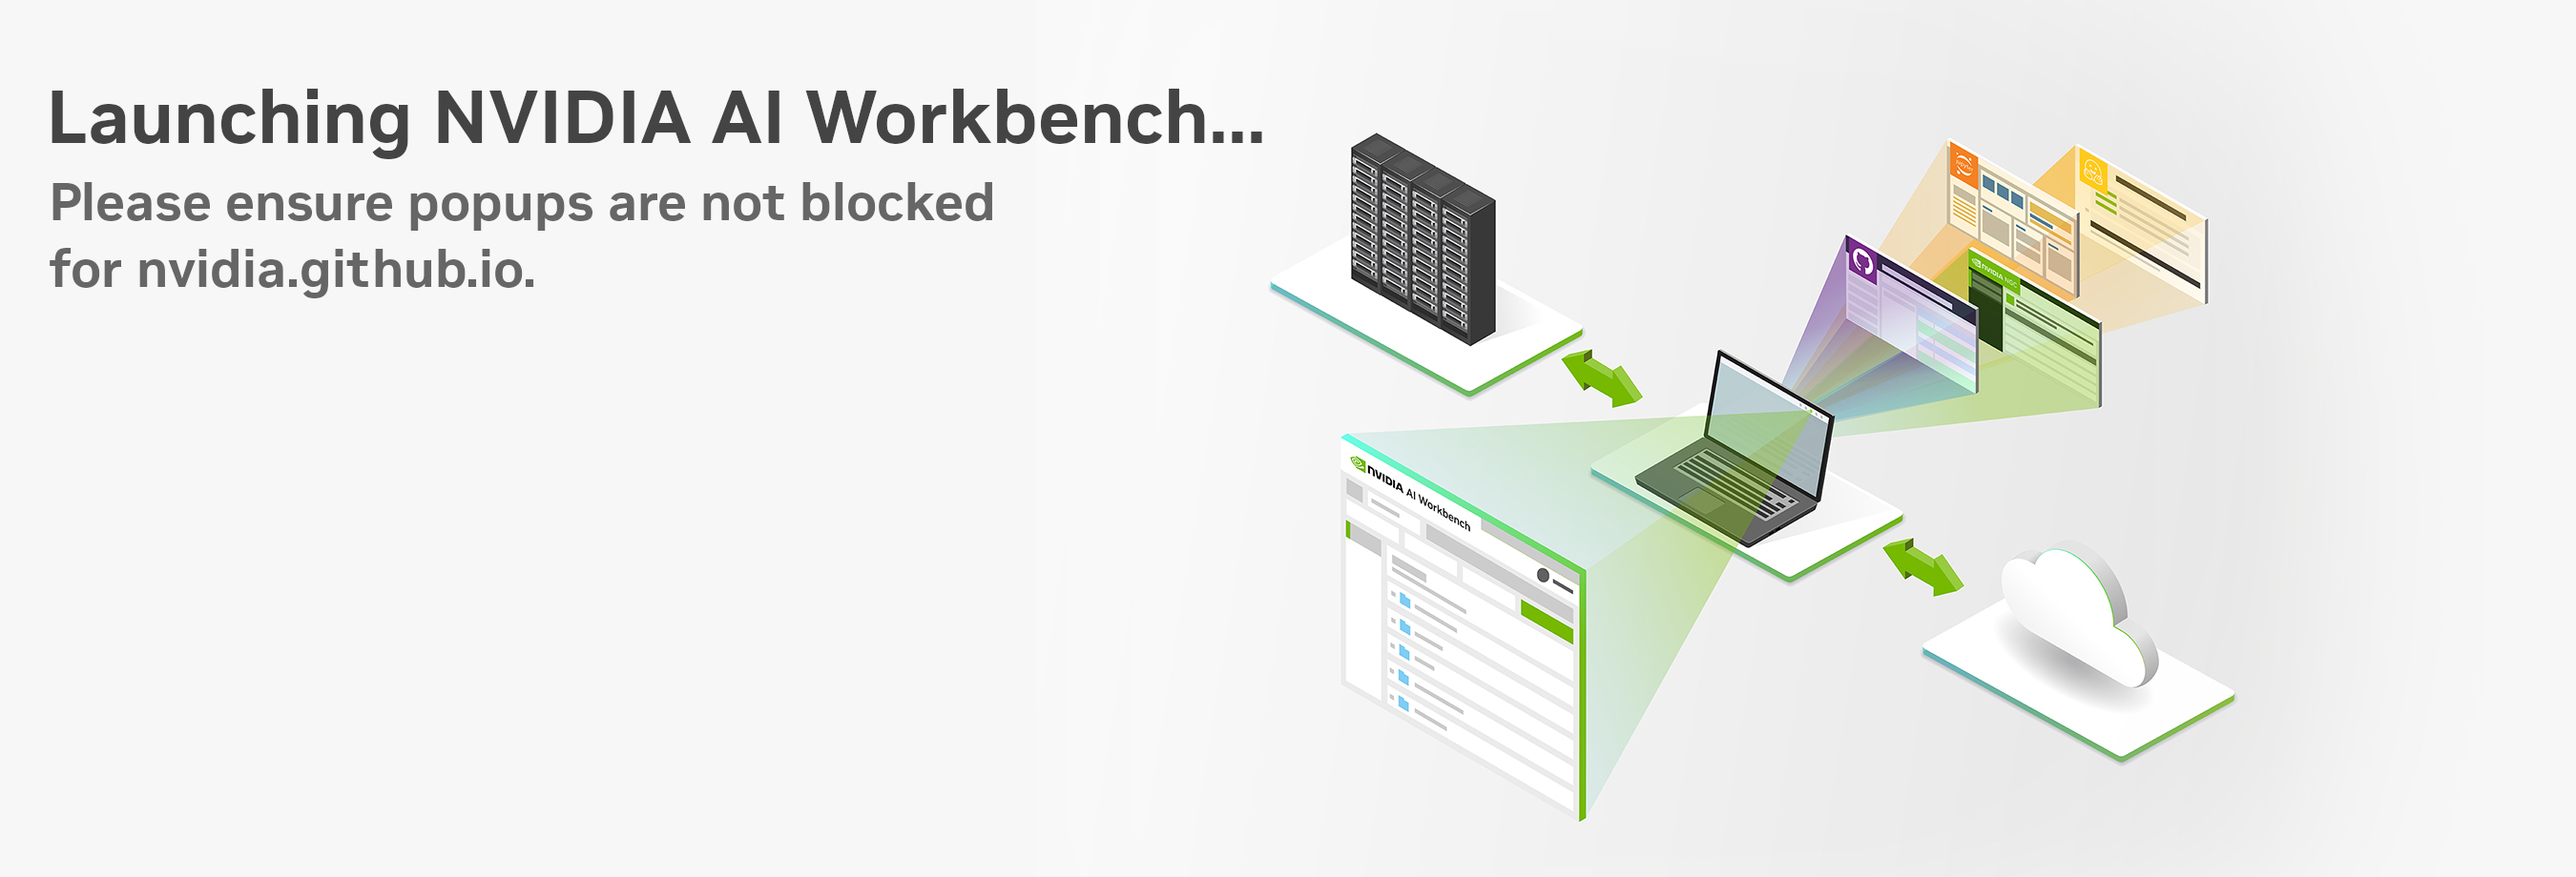
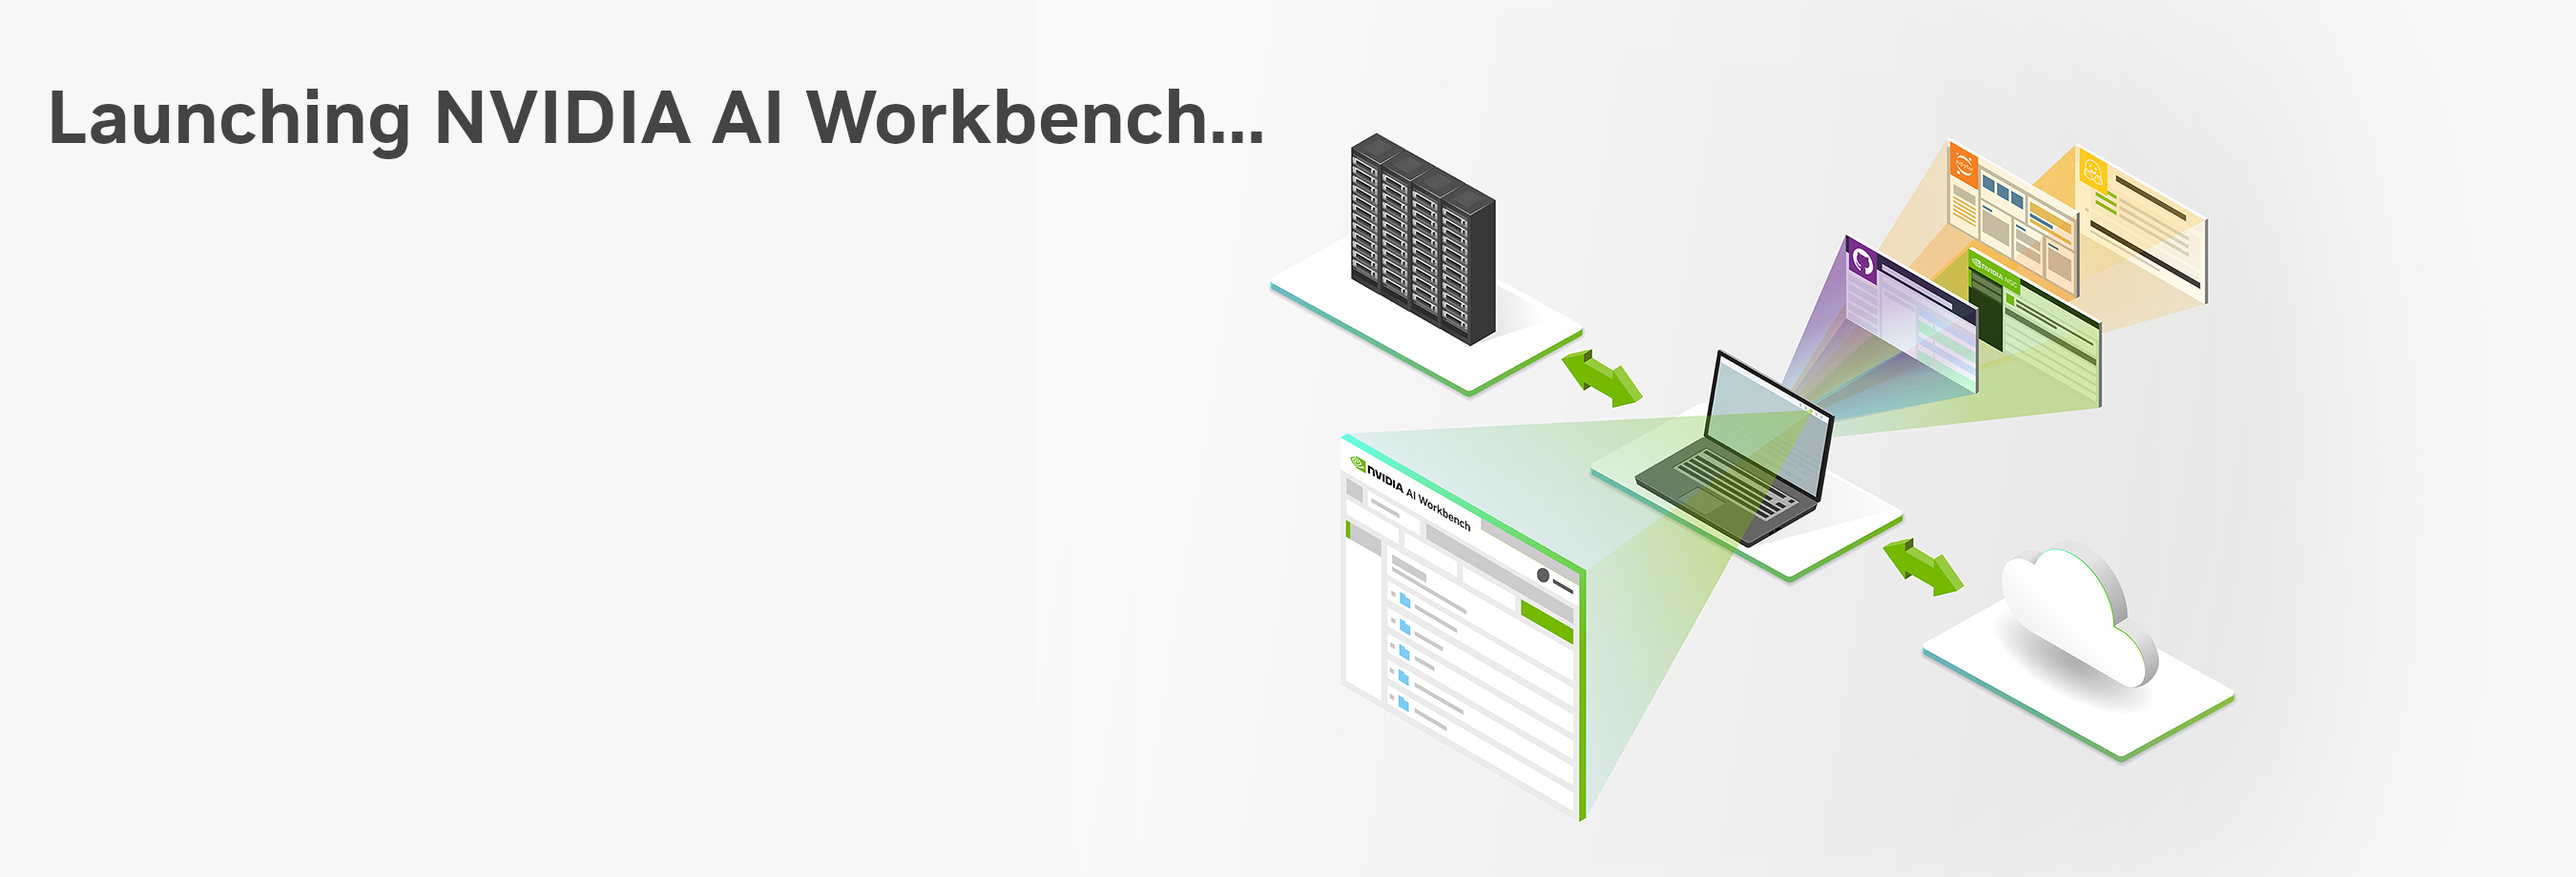
Added manual link to launch workbench.

Changed region(s): [[0.0, 0.213, 0.4044, 0.3348]]

diff --git a/clone_me.html b/clone_me.html
@@ -4,7 +4,7 @@
         <link rel="stylesheet" href="style.css">
         <script>
             url="nvwb://localhost/import?projectURL=https://github.com/nvidia/nim-anywhere";
-            window.open(url, '_blank').focus();
+            // window.open(url, '_blank').focus();
         </script>
     </head>
 
@@ -27,7 +27,12 @@
                 <img alt="Cloning with NVIDIA AI Workbench..." src="./aiwb.jpg" style="max-width:100%;max-height:400px;" />
             </div>
 
-            <div class="pane dark stretch">
+            <div class="pane light"><div class="paneHelper">
+                <h1>Not Working?</h1>
+                <p>Ensure popups are not blocked or try <a href="nvwb://localhost/import?projectURL=https://github.com/nvidia/nim-anywhere">clicking here</a>.</p>
+            </div></div>
+
+            <div class="pane dark stretch"><div class="paneHelper">
                 <h1>Don't have AI Workbench yet?</h1>
                 <p>Use AI Workbench for free. Support is available with an <a href=https://www.nvidia.com/en-us/data-center/products/ai-enterprise/">NVIDIA AI Enterprise</a> license.</p>
 
@@ -40,7 +45,7 @@
                 </div>
 
                 <p>Check out the <a href="https://docs.nvidia.com/ai-workbench/user-guide/latest/overview/introduction.html">NVIDIA AI Workbench User Guide.</a></p>
-            </div>
+            </div></div>
 
     </div></body>
 </html>

diff --git a/style.css b/style.css
@@ -84,12 +84,26 @@ body {
     width: 100%;
     text-align: center;
   }
+  .paneHelper {
+    max-width: 850px;
+    margin: auto;
+  }
+  .light {
+    background-color: #fff;
+    color: #000;
+  }
   .dark {
     background-color: #000;
     color: #fff;
   }
   .stretch {
     flex: 1;
+  }
+  .light a {
+    margin-top: 20px;
+    margin-bottom: 20px;
+    color: #000;
+    text-decoration-color: #76b900;
   }
   .dark a {
     margin-top: 20px;
@@ -112,4 +126,9 @@ body {
     max-width: 250px;
     margin: 20px;
     font-weight: bold;
+  }
+  h1 {
+    width: 100%;
+    display: block;
+    text-align: left;
   }
